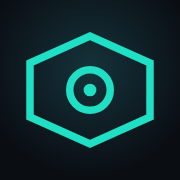
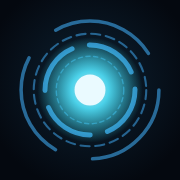
Nuova icona reattore e nome app JARVIS
Claude-Session: https://claude.ai/code/session_01Bwo1Z7Bmptkc2dD3qsBuHf

diff --git a/index.html b/index.html
@@ -10,7 +10,7 @@
 <link rel="apple-touch-icon" href="apple-touch-icon.png">
 <link rel="icon" href="icon-192.png">
 <meta name="apple-mobile-web-app-status-bar-style" content="black-translucent">
-<meta name="apple-mobile-web-app-title" content="Quartier Generale">
+<meta name="apple-mobile-web-app-title" content="JARVIS">
 <title>Quartier Generale</title>
 <link rel="stylesheet" href="https://fonts.googleapis.com/css2?family=Inter:wght@400;600;700&family=Space+Mono:wght@400;700&display=swap">
 <style>

diff --git a/sw.js b/sw.js
@@ -1,4 +1,4 @@
-const CACHE = 'qg-v7';
+const CACHE = 'qg-v8';
 const ASSETS = [
   './', 'index.html', 'radar.html', 'jarvis.html',
   'manifest.webmanifest', 'icon-192.png', 'icon-512.png', 'apple-touch-icon.png'
